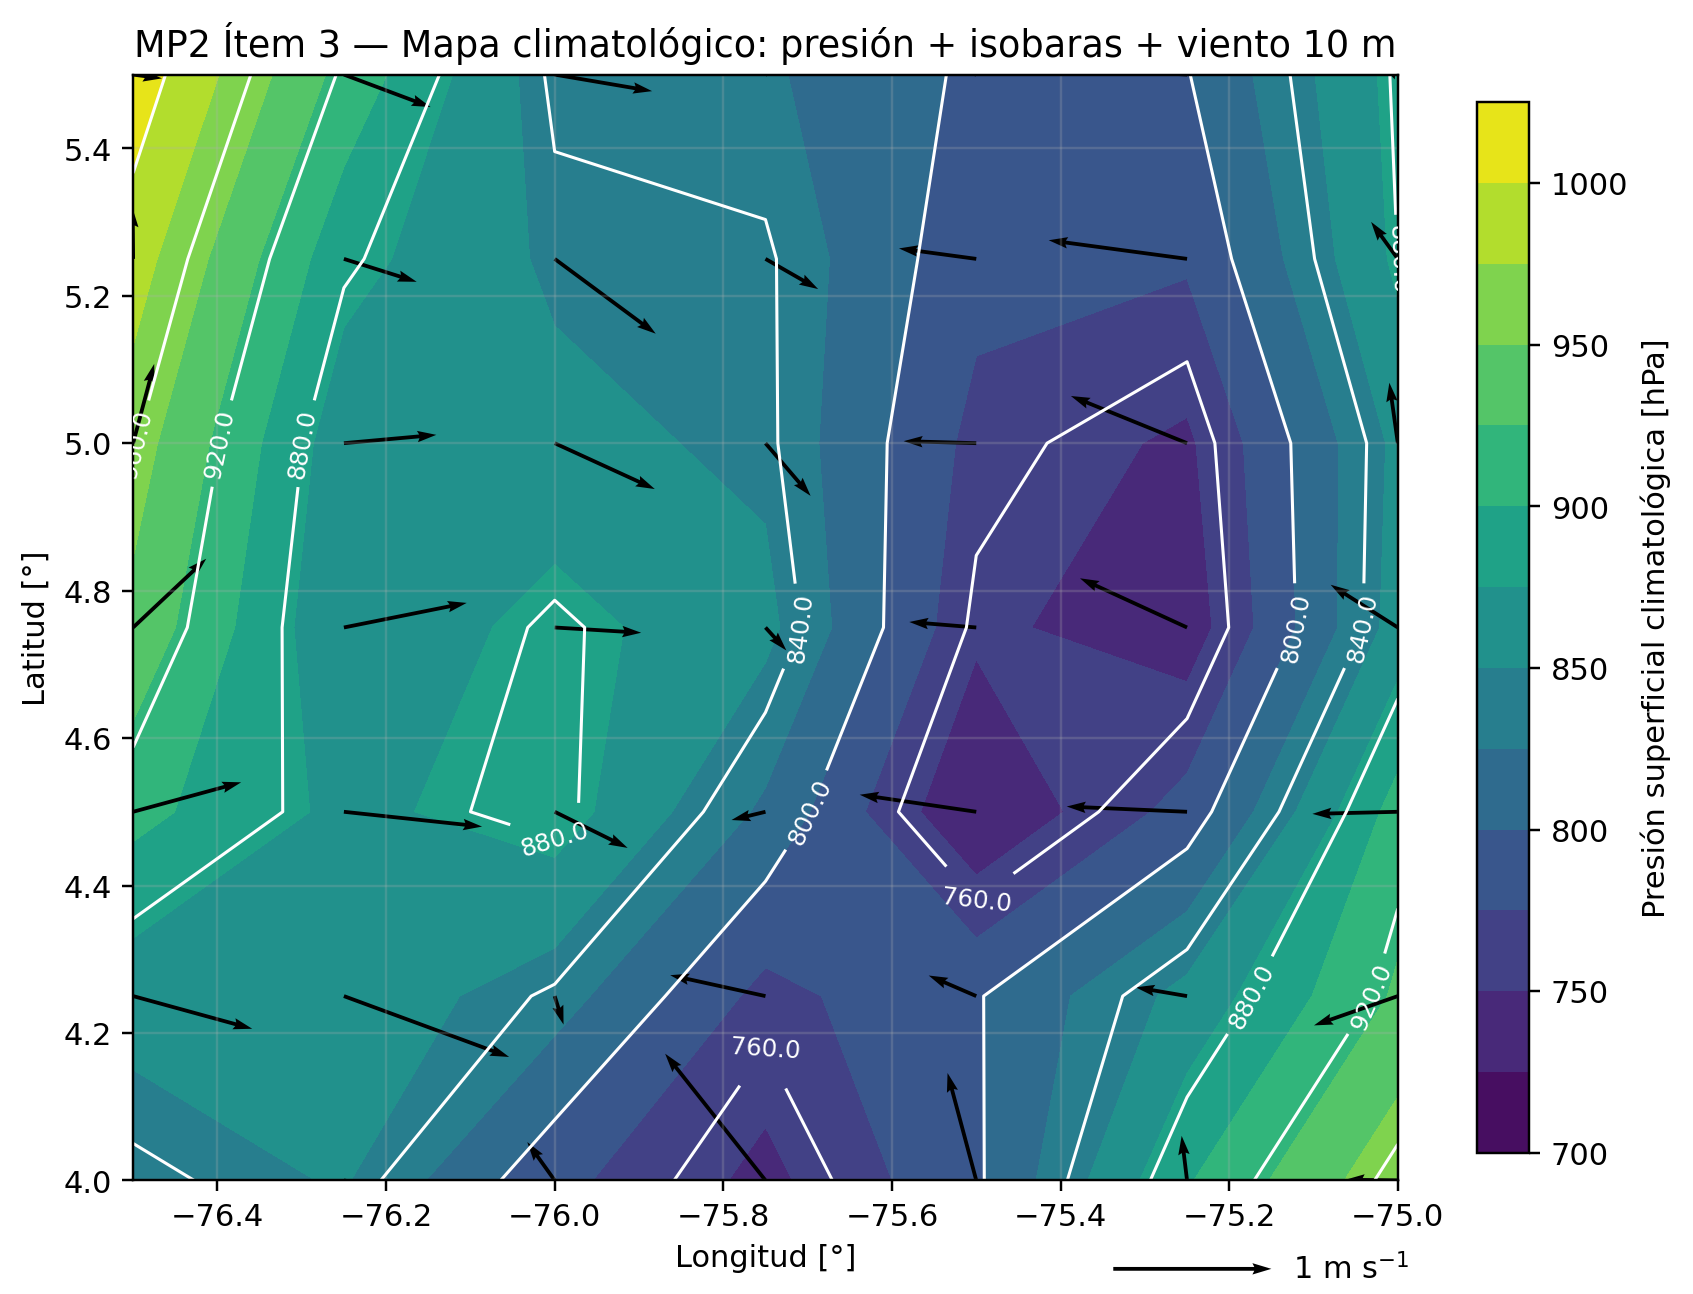
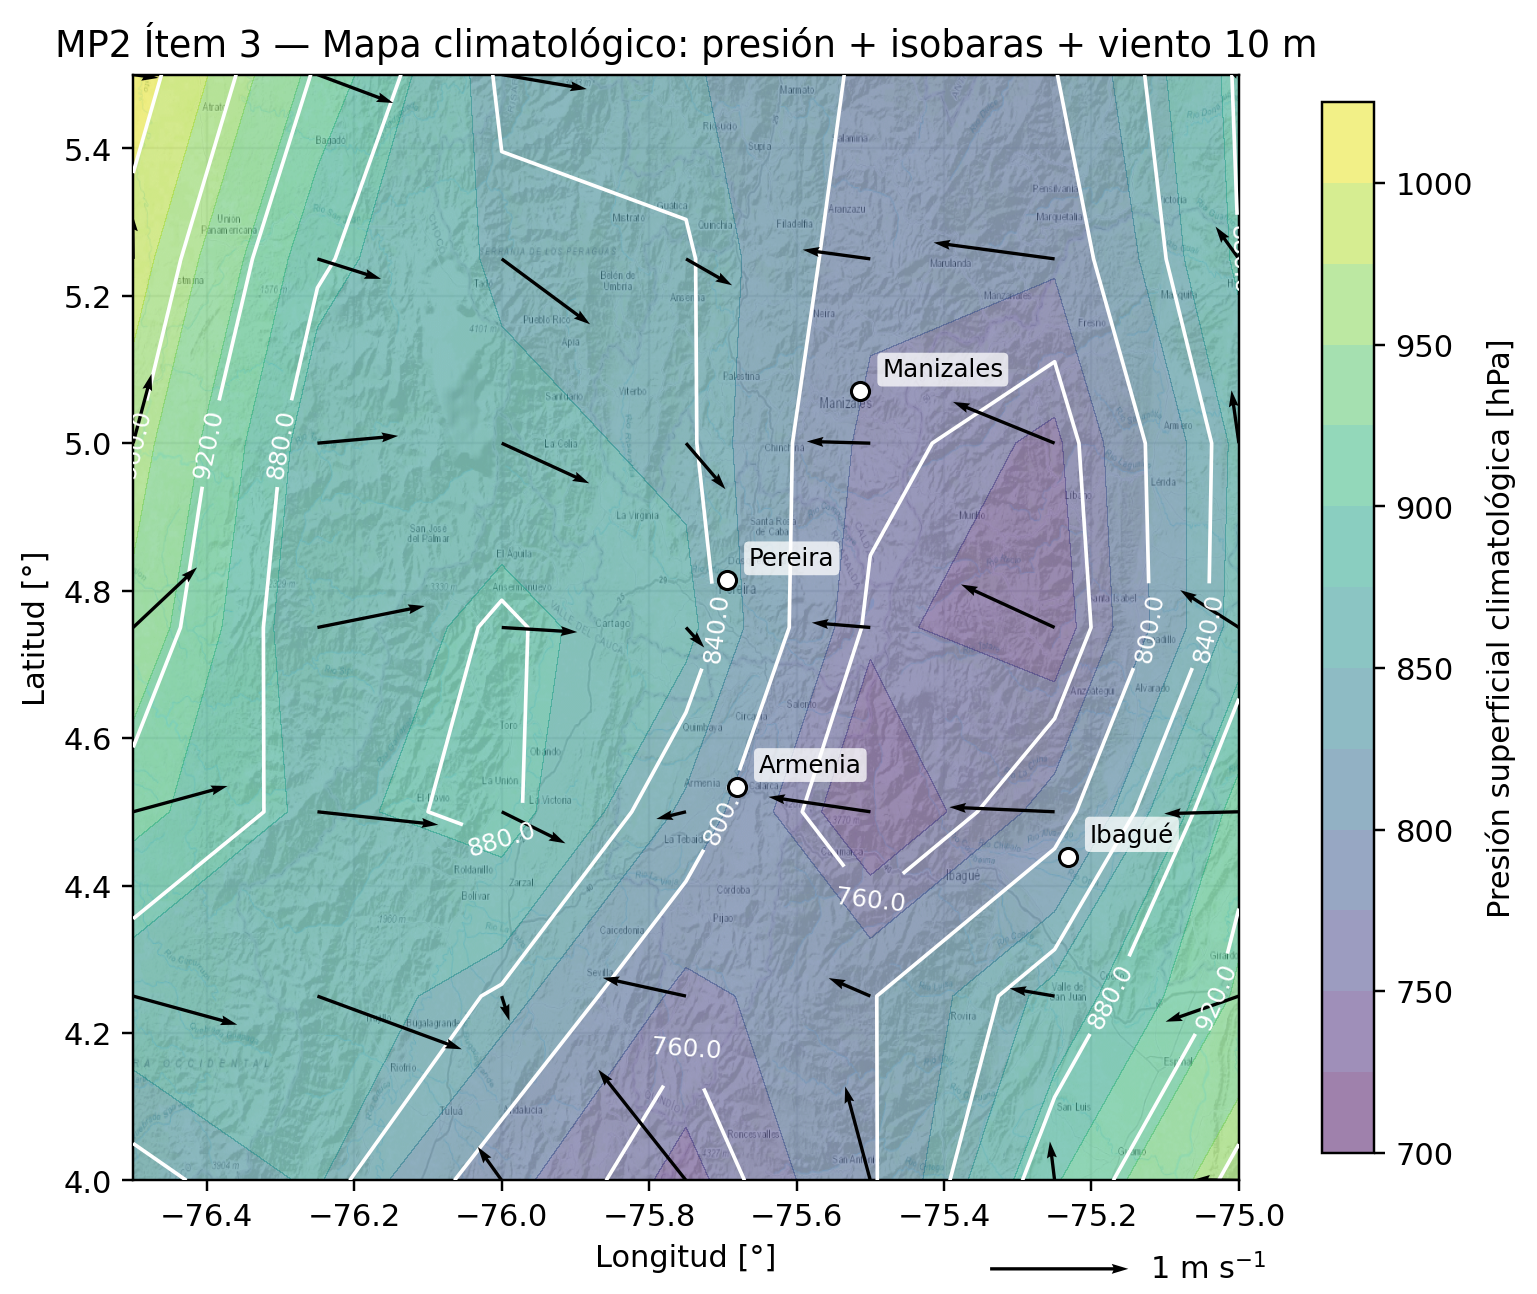
MP2: anotar ciudades y usar fondo cartografico en mapas de item 3

diff --git a/proyecto 2/scripts/python/03_climatologias_regionales.py b/proyecto 2/scripts/python/03_climatologias_regionales.py
@@ -14,6 +14,8 @@ Salidas:
 from __future__ import annotations
 
 from pathlib import Path
+from urllib.request import urlopen
+import ssl
 import numpy as np
 import pandas as pd
 import xarray as xr
@@ -29,6 +31,39 @@ VAR_META = {
     "v10": {"label": "Viento meridional 10 m (v)", "unit_out": "m s$^{-1}$", "convert": lambda x: x},
     "ws10": {"label": "Rapidez del viento 10 m", "unit_out": "m s$^{-1}$", "convert": lambda x: x},
 }
+
+CITIES = {
+    "Pereira": (4.8143, -75.6946),
+    "Armenia": (4.5339, -75.6811),
+    "Manizales": (5.0703, -75.5138),
+    "Ibagué": (4.4389, -75.2322),
+}
+
+
+def _download_basemap(lon_min: float, lat_min: float, lon_max: float, lat_max: float, out_png: Path) -> Path | None:
+    """Descarga fondo de mapa (ArcGIS World Topo) para el bbox en EPSG:4326."""
+    url = (
+        "https://server.arcgisonline.com/ArcGIS/rest/services/World_Topo_Map/MapServer/export"
+        f"?bbox={lon_min},{lat_min},{lon_max},{lat_max}"
+        "&bboxSR=4326&imageSR=4326&size=1200,900&format=png&f=image"
+    )
+    try:
+        out_png.parent.mkdir(parents=True, exist_ok=True)
+        ctx = ssl._create_unverified_context()
+        with urlopen(url, context=ctx, timeout=30) as resp:
+            data = resp.read()
+        out_png.write_bytes(data)
+        return out_png if out_png.exists() and out_png.stat().st_size > 0 else None
+    except Exception:
+        return None
+
+
+def _annotate_cities(ax, lon_min: float, lat_min: float, lon_max: float, lat_max: float) -> None:
+    for name, (lat, lon) in CITIES.items():
+        if lat_min <= lat <= lat_max and lon_min <= lon <= lon_max:
+            ax.scatter(lon, lat, s=35, c="white", edgecolors="black", zorder=6)
+            ax.text(lon + 0.03, lat + 0.02, name, fontsize=8, color="black", zorder=7,
+                    bbox=dict(boxstyle="round,pad=0.2", fc="white", ec="none", alpha=0.75))
 
 
 def _open_dataset(nc_path: Path) -> xr.Dataset:
@@ -121,21 +156,28 @@ def plot_climatology_monthly(df: pd.DataFrame, out_png: Path) -> None:
     plt.close(fig)
 
 
-def plot_map_pressure_wind(fields: dict[str, xr.DataArray], out_png: Path) -> None:
+def plot_map_pressure_wind(fields: dict[str, xr.DataArray], out_png: Path, basemap_path: Path | None = None) -> None:
     lon = fields["sp"]["longitude"].values
     lat = fields["sp"]["latitude"].values
     sp = fields["sp"].values
     u = fields["u10"].values
     v = fields["v10"].values
 
+    lon_min, lon_max = float(np.min(lon)), float(np.max(lon))
+    lat_min, lat_max = float(np.min(lat)), float(np.max(lat))
+
     fig, ax = plt.subplots(figsize=(8, 6))
 
-    cf = ax.contourf(lon, lat, sp, levels=12, cmap="viridis")
+    if basemap_path and basemap_path.exists():
+        img = plt.imread(basemap_path)
+        ax.imshow(img, extent=[lon_min, lon_max, lat_min, lat_max], origin="upper", alpha=0.85, zorder=0)
+
+    cf = ax.contourf(lon, lat, sp, levels=12, cmap="viridis", alpha=0.52, zorder=2)
     cbar = fig.colorbar(cf, ax=ax, shrink=0.95)
     cbar.set_label("Presión superficial climatológica [hPa]")
 
     # Isobaras
-    cs = ax.contour(lon, lat, sp, levels=8, colors="white", linewidths=1.0)
+    cs = ax.contour(lon, lat, sp, levels=8, colors="white", linewidths=1.2, zorder=4)
     ax.clabel(cs, inline=True, fontsize=8, fmt="%.1f")
 
     # Viento (submuestreo para legibilidad)
@@ -148,12 +190,17 @@ def plot_map_pressure_wind(fields: dict[str, xr.DataArray], out_png: Path) -> No
         color="black",
         scale=8,
         width=0.003,
+        zorder=5,
     )
     ax.quiverkey(q, 0.90, -0.08, 1.0, "1 m s$^{-1}$", labelpos="E")
+
+    _annotate_cities(ax, lon_min, lat_min, lon_max, lat_max)
 
     ax.set_title("MP2 Ítem 3 — Mapa climatológico: presión + isobaras + viento 10 m")
     ax.set_xlabel("Longitud [°]")
     ax.set_ylabel("Latitud [°]")
+    ax.set_xlim(lon_min, lon_max)
+    ax.set_ylim(lat_min, lat_max)
     ax.grid(alpha=0.25)
 
     fig.tight_layout()
@@ -161,22 +208,34 @@ def plot_map_pressure_wind(fields: dict[str, xr.DataArray], out_png: Path) -> No
     plt.close(fig)
 
 
-def plot_map_temperature(fields: dict[str, xr.DataArray], out_png: Path) -> None:
+def plot_map_temperature(fields: dict[str, xr.DataArray], out_png: Path, basemap_path: Path | None = None) -> None:
     lon = fields["t2m"]["longitude"].values
     lat = fields["t2m"]["latitude"].values
     t2m = fields["t2m"].values
 
+    lon_min, lon_max = float(np.min(lon)), float(np.max(lon))
+    lat_min, lat_max = float(np.min(lat)), float(np.max(lat))
+
     fig, ax = plt.subplots(figsize=(8, 6))
-    cf = ax.contourf(lon, lat, t2m, levels=12, cmap="plasma")
+
+    if basemap_path and basemap_path.exists():
+        img = plt.imread(basemap_path)
+        ax.imshow(img, extent=[lon_min, lon_max, lat_min, lat_max], origin="upper", alpha=0.85, zorder=0)
+
+    cf = ax.contourf(lon, lat, t2m, levels=12, cmap="plasma", alpha=0.52, zorder=2)
     cbar = fig.colorbar(cf, ax=ax, shrink=0.95)
     cbar.set_label("Temperatura 2 m climatológica [°C]")
 
-    cs = ax.contour(lon, lat, t2m, levels=8, colors="k", linewidths=0.7, alpha=0.6)
+    cs = ax.contour(lon, lat, t2m, levels=8, colors="k", linewidths=0.8, alpha=0.7, zorder=4)
     ax.clabel(cs, inline=True, fontsize=8, fmt="%.2f")
+
+    _annotate_cities(ax, lon_min, lat_min, lon_max, lat_max)
 
     ax.set_title("MP2 Ítem 3 — Mapa climatológico: temperatura 2 m")
     ax.set_xlabel("Longitud [°]")
     ax.set_ylabel("Latitud [°]")
+    ax.set_xlim(lon_min, lon_max)
+    ax.set_ylim(lat_min, lat_max)
     ax.grid(alpha=0.25)
 
     fig.tight_layout()
@@ -240,9 +299,16 @@ def main() -> None:
 
     fields = compute_annual_mean_fields(ds)
 
+    lon = fields["sp"]["longitude"].values
+    lat = fields["sp"]["latitude"].values
+    lon_min, lon_max = float(np.min(lon)), float(np.max(lon))
+    lat_min, lat_max = float(np.min(lat)), float(np.max(lat))
+    basemap_path = project_root / "results" / "plots" / "03_basemap_arcgis.png"
+    basemap_path = _download_basemap(lon_min, lat_min, lon_max, lat_max, basemap_path)
+
     plot_climatology_monthly(df, out_series_png)
-    plot_map_pressure_wind(fields, out_map_sp_uv_png)
-    plot_map_temperature(fields, out_map_t_png)
+    plot_map_pressure_wind(fields, out_map_sp_uv_png, basemap_path=basemap_path)
+    plot_map_temperature(fields, out_map_t_png, basemap_path=basemap_path)
 
     write_report(df, out_md)
 
